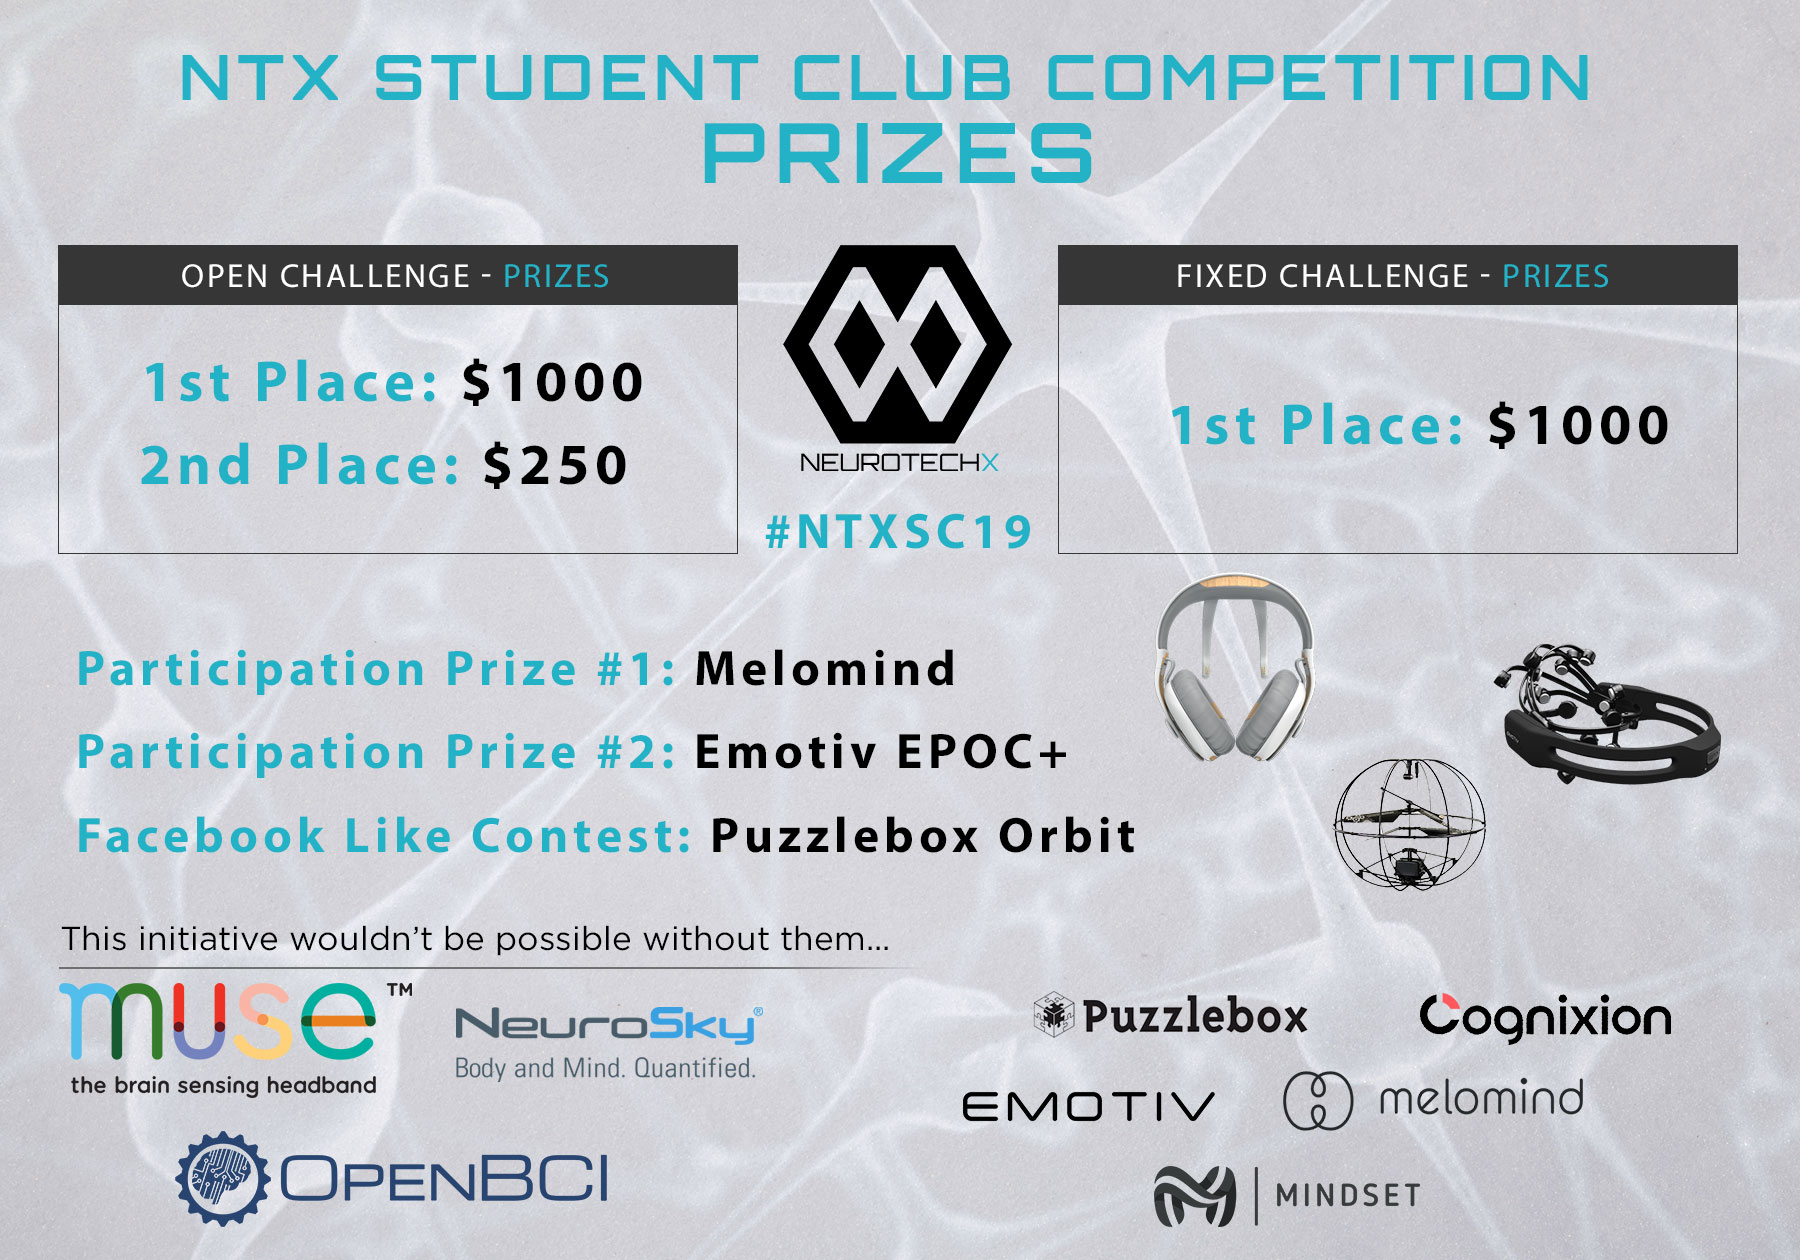
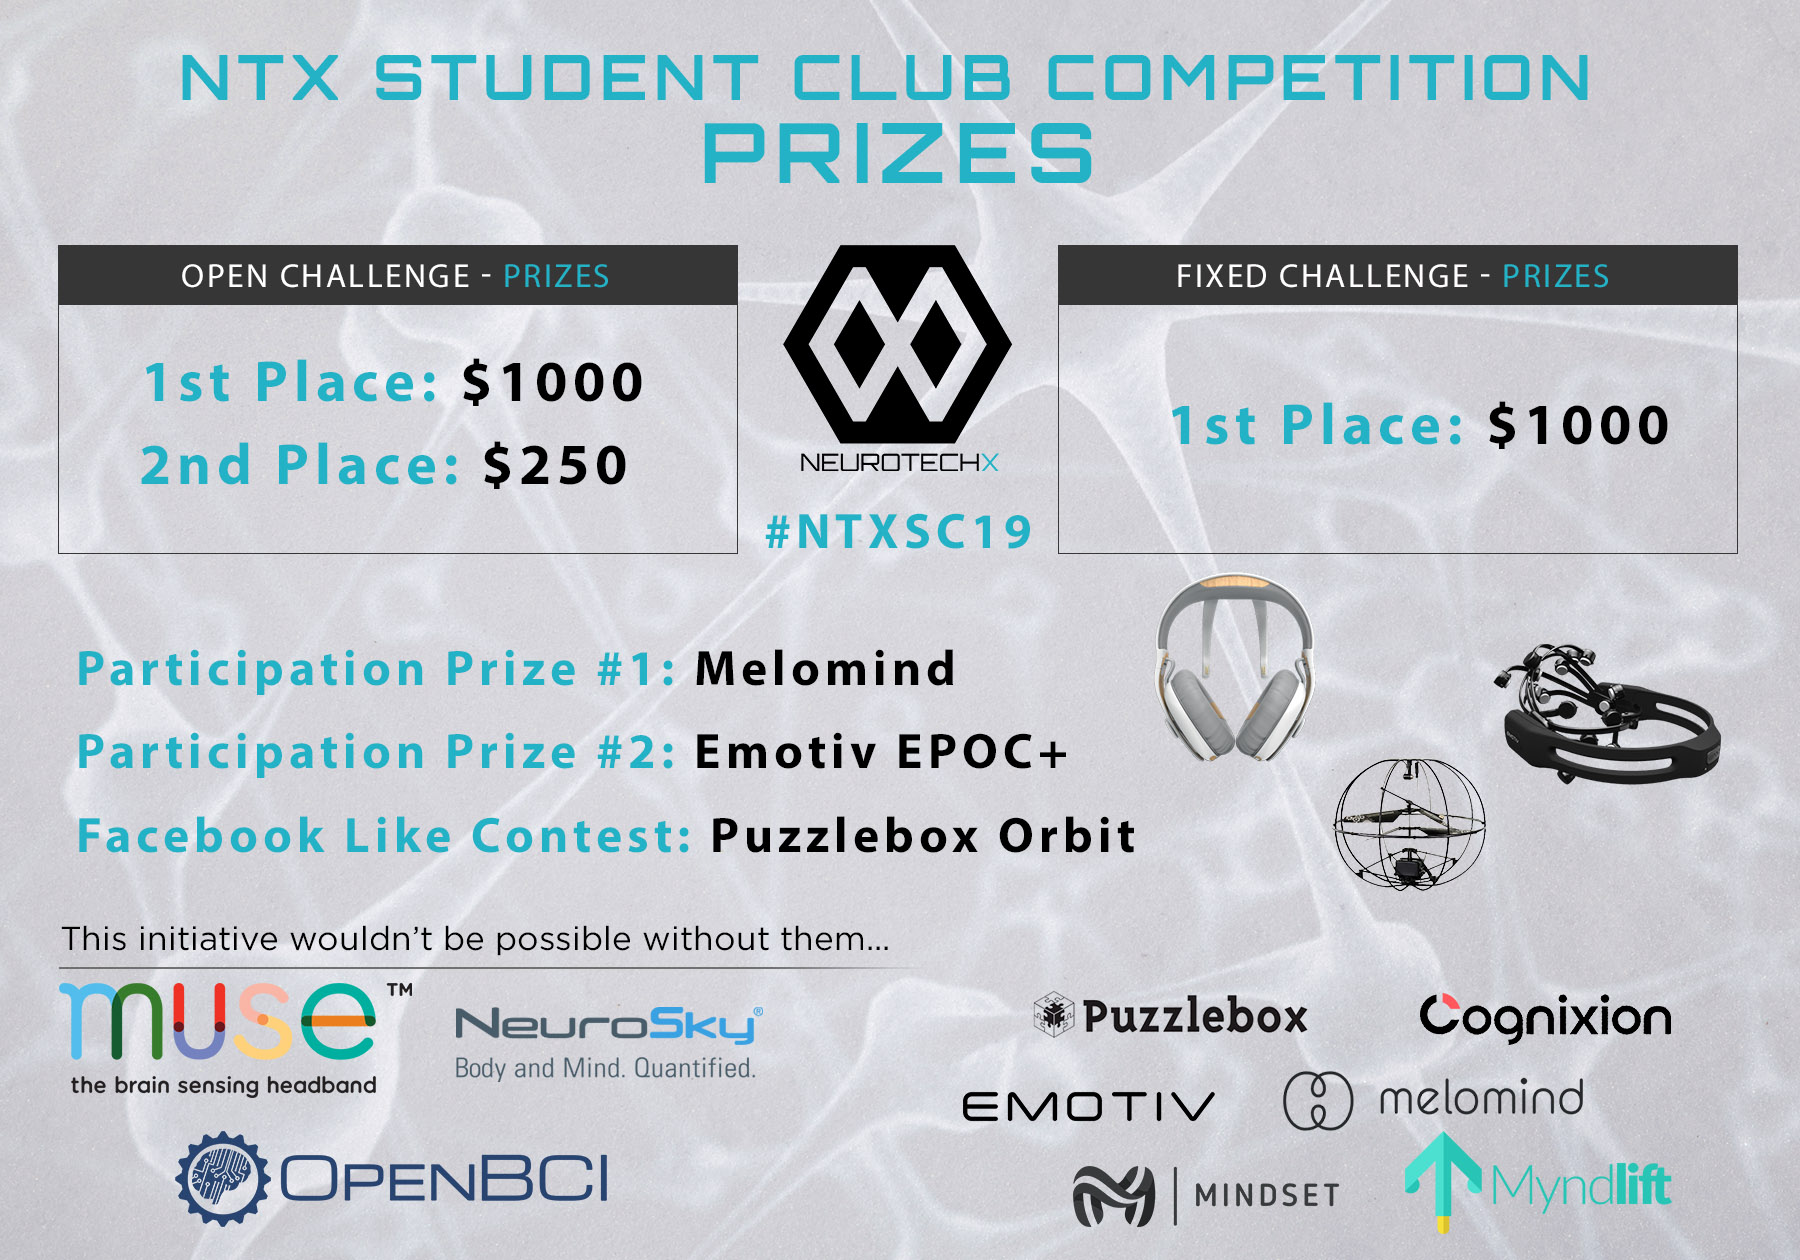
Updated Main Image.

Changed region(s): [[0.5911, 0.8976, 0.9333, 0.9905]]

diff --git a/pages/partners.md b/pages/partners.md
@@ -14,11 +14,11 @@ header: no
 OpenBCI | InteraXon | Neurosky
 
 --- | --- | ---
-[![Mindset]({{ site.url }}{{ site.baseurl }}/images/partners/Mindset.png "Mindset")](https://www.thinkmindset.com/) | [![Cognixion]({{ site.url }}{{ site.baseurl }}/images/partners/Cognixion.png "Cognixion")](https://www.cognixion.com/) | [![Puzzlebox]({{ site.url }}{{ site.baseurl }}/images/partners/Puzzlebox.png "Puzzlebox")](https://puzzlebox.io/)
+[![Mindset]({{ site.url }}{{ site.baseurl }}/images/partners/Mindset.png "Mindset")](https://www.thinkmindset.com/) | [![Cognixion]({{ site.url }}{{ site.baseurl }}/images/partners/Cognixion.png "Cognixion")](https://www.cognixion.com/) | [![Myndlift]({{ site.url }}{{ site.baseurl }}/images/partners/Myndlift.png "Myndlift")](https://www.myndlift.com/) 
 Mindset | Cognixion | Puzzlebox
 
 --- | --- | ---
-[![Emotiv]({{ site.url }}{{ site.baseurl }}/images/partners/Emotiv.png "Emotiv")](https://www.emotiv.com/) | . | [![Melomind]({{ site.url }}{{ site.baseurl }}/images/partners/Melomind.png "Melomind")](https://www.melomind.com/)
+[![Emotiv]({{ site.url }}{{ site.baseurl }}/images/partners/Emotiv.png "Emotiv")](https://www.emotiv.com/) | [![Puzzlebox]({{ site.url }}{{ site.baseurl }}/images/partners/Puzzlebox.png "Puzzlebox")](https://puzzlebox.io/) | [![Melomind]({{ site.url }}{{ site.baseurl }}/images/partners/Melomind.png "Melomind")](https://www.melomind.com/)
 Emotiv |  | Melomind
 
 --- | --- | ---
